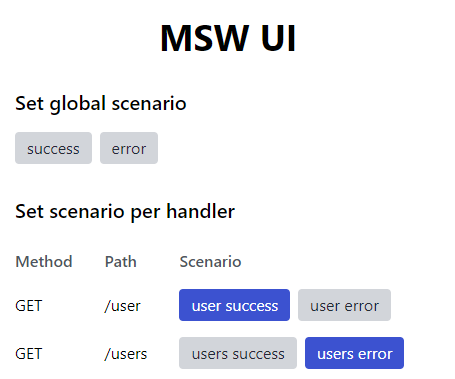
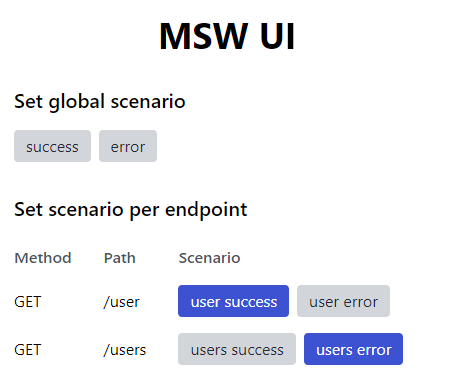
Better wording

diff --git a/msw-ui/src/static/index.html b/msw-ui/src/static/index.html
@@ -6,7 +6,7 @@
     <meta name="viewport" content="width=device-width, initial-scale=1.0" />
     <title>Vite App</title>
     <script type="module" crossorigin src="/assets/index.6ff39571.js"></script>
-    <link rel="stylesheet" href="/assets/index.34039bd9.css">
+    <link rel="stylesheet" href="/assets/index.34039bd9.css" />
   </head>
   <body>
     <div id="app">
@@ -17,7 +17,7 @@
       <h2>Set global scenario</h2>
       <div id="global-scenarios"></div>
 
-      <h2>Set scenario per handler</h2>
+      <h2>Set scenario per endpoint</h2>
 
       <table>
         <thead>
@@ -30,6 +30,5 @@
         <tbody id="scenarios-per-handler"></tbody>
       </table>
     </div>
-    
   </body>
 </html>

diff --git a/dist/ui/index.html b/dist/ui/index.html
@@ -23,7 +23,7 @@ const e=async()=>{const n=(await fetch("/scenario").then((e=>e.json()))).scenari
       <h2>Set global scenario</h2>
       <div id="global-scenarios"></div>
 
-      <h2>Set scenario per handler</h2>
+      <h2>Set scenario per endpoint</h2>
 
       <table>
         <thead>

diff --git a/msw-ui/dist/index.html b/msw-ui/dist/index.html
@@ -23,7 +23,7 @@ const e=async()=>{const n=(await fetch("/scenario").then((e=>e.json()))).scenari
       <h2>Set global scenario</h2>
       <div id="global-scenarios"></div>
 
-      <h2>Set scenario per handler</h2>
+      <h2>Set scenario per endpoint</h2>
 
       <table>
         <thead>

diff --git a/msw-ui/index.html b/msw-ui/index.html
@@ -15,7 +15,7 @@
       <h2>Set global scenario</h2>
       <div id="global-scenarios"></div>
 
-      <h2>Set scenario per handler</h2>
+      <h2>Set scenario per endpoint</h2>
 
       <table>
         <thead>
